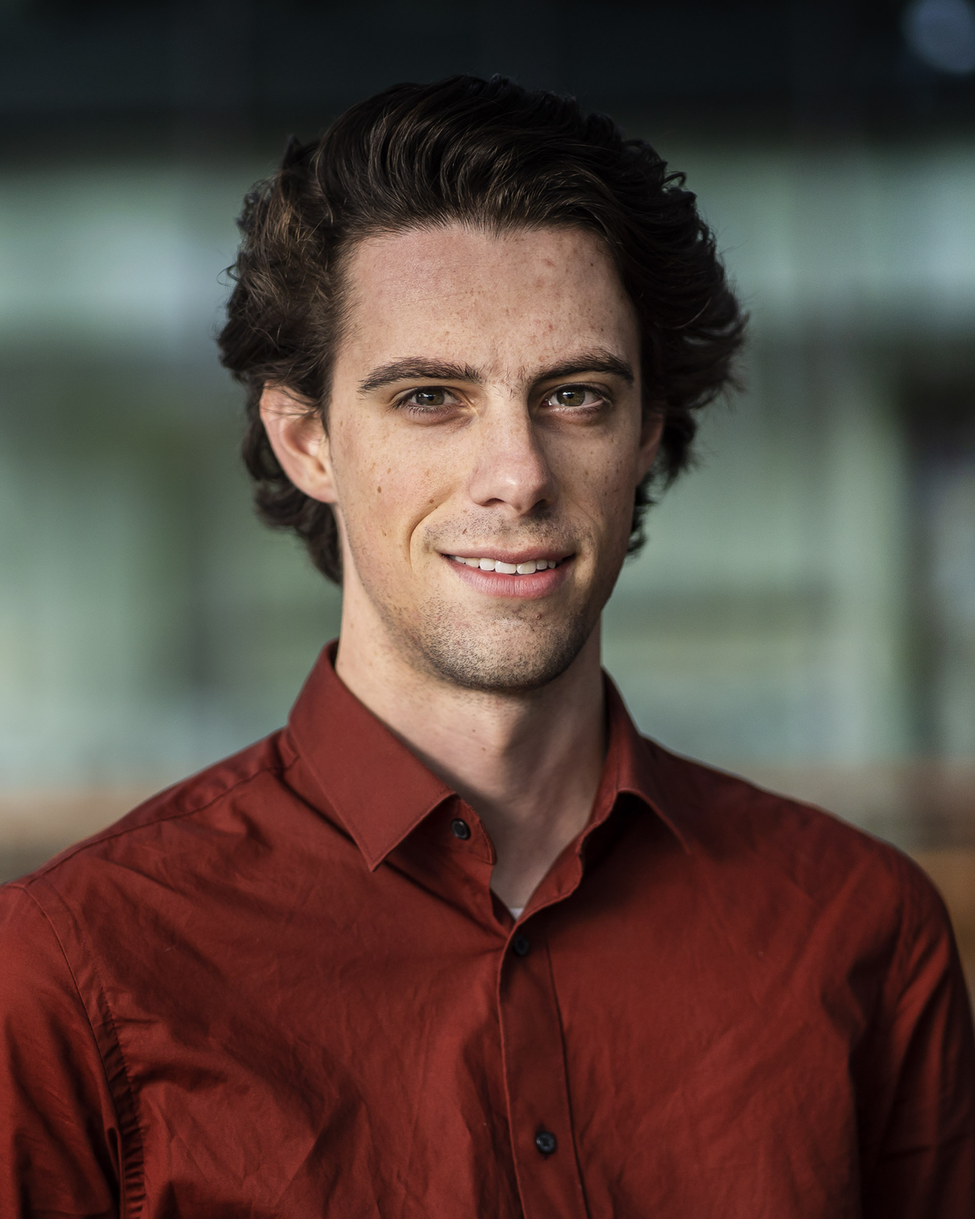
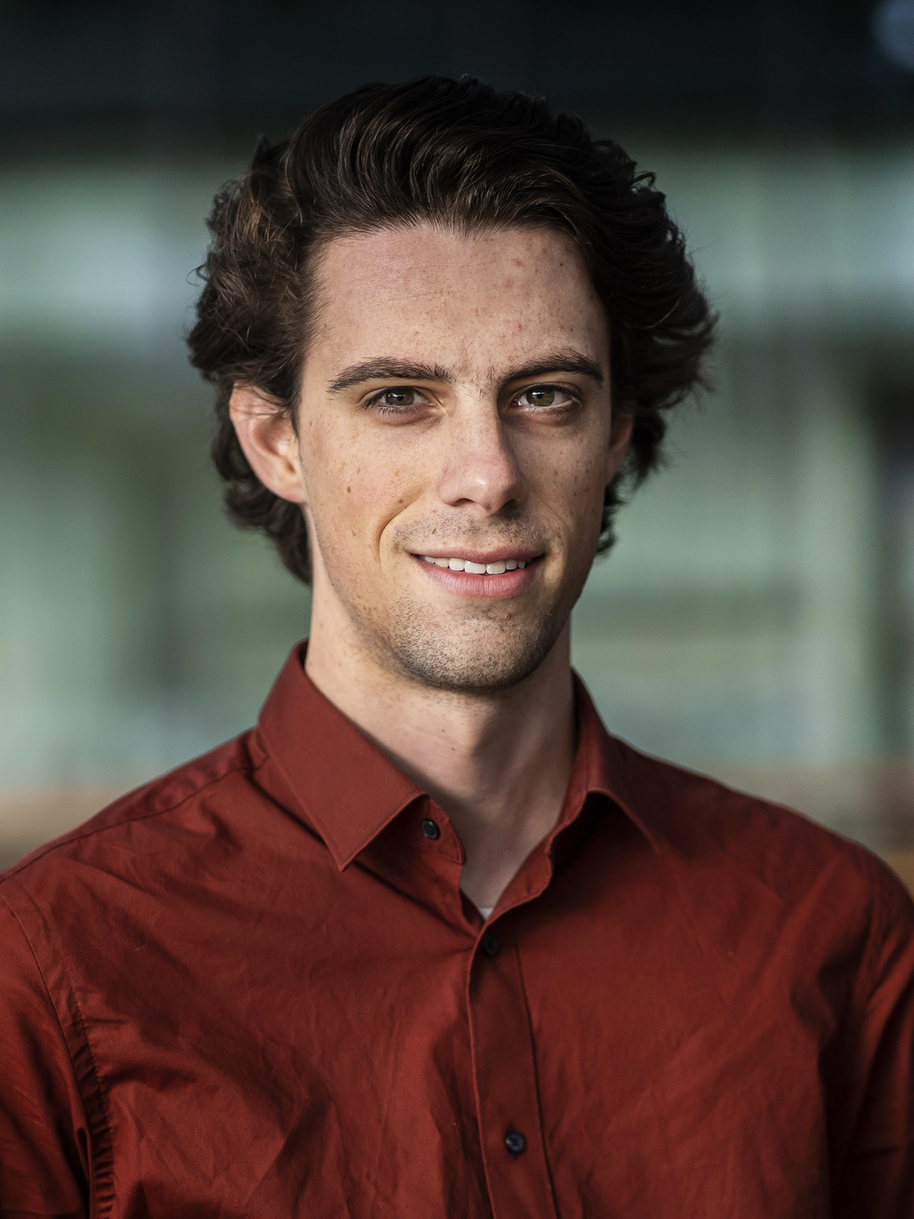
Adding gallery

diff --git a/_pages/gallery.md b/_pages/gallery.md
@@ -57,7 +57,7 @@ PhD students currently in my group.
           </tr>         
           <tr>
             <td style="white-space: nowrap;"><strong>Project</strong></td>
-            <td><a href="/projects/ctrlp/">Ctrl-P</a>Ctrl-P</td>
+            <td><a href="/projects/ctrlp/">Ctrl-P</a></td>
           </tr>
           <tr>
             <td style="white-space: nowrap;"><strong>Years:</strong></td>
@@ -71,7 +71,7 @@ PhD students currently in my group.
 
 ## Affiliated
 
-PhD candidates and PostDocs that I collaborate with.
+PhD candidates and PostDocs that I co-supervise or collaborate with.
 
 <div class="container">
   <div class="row">
